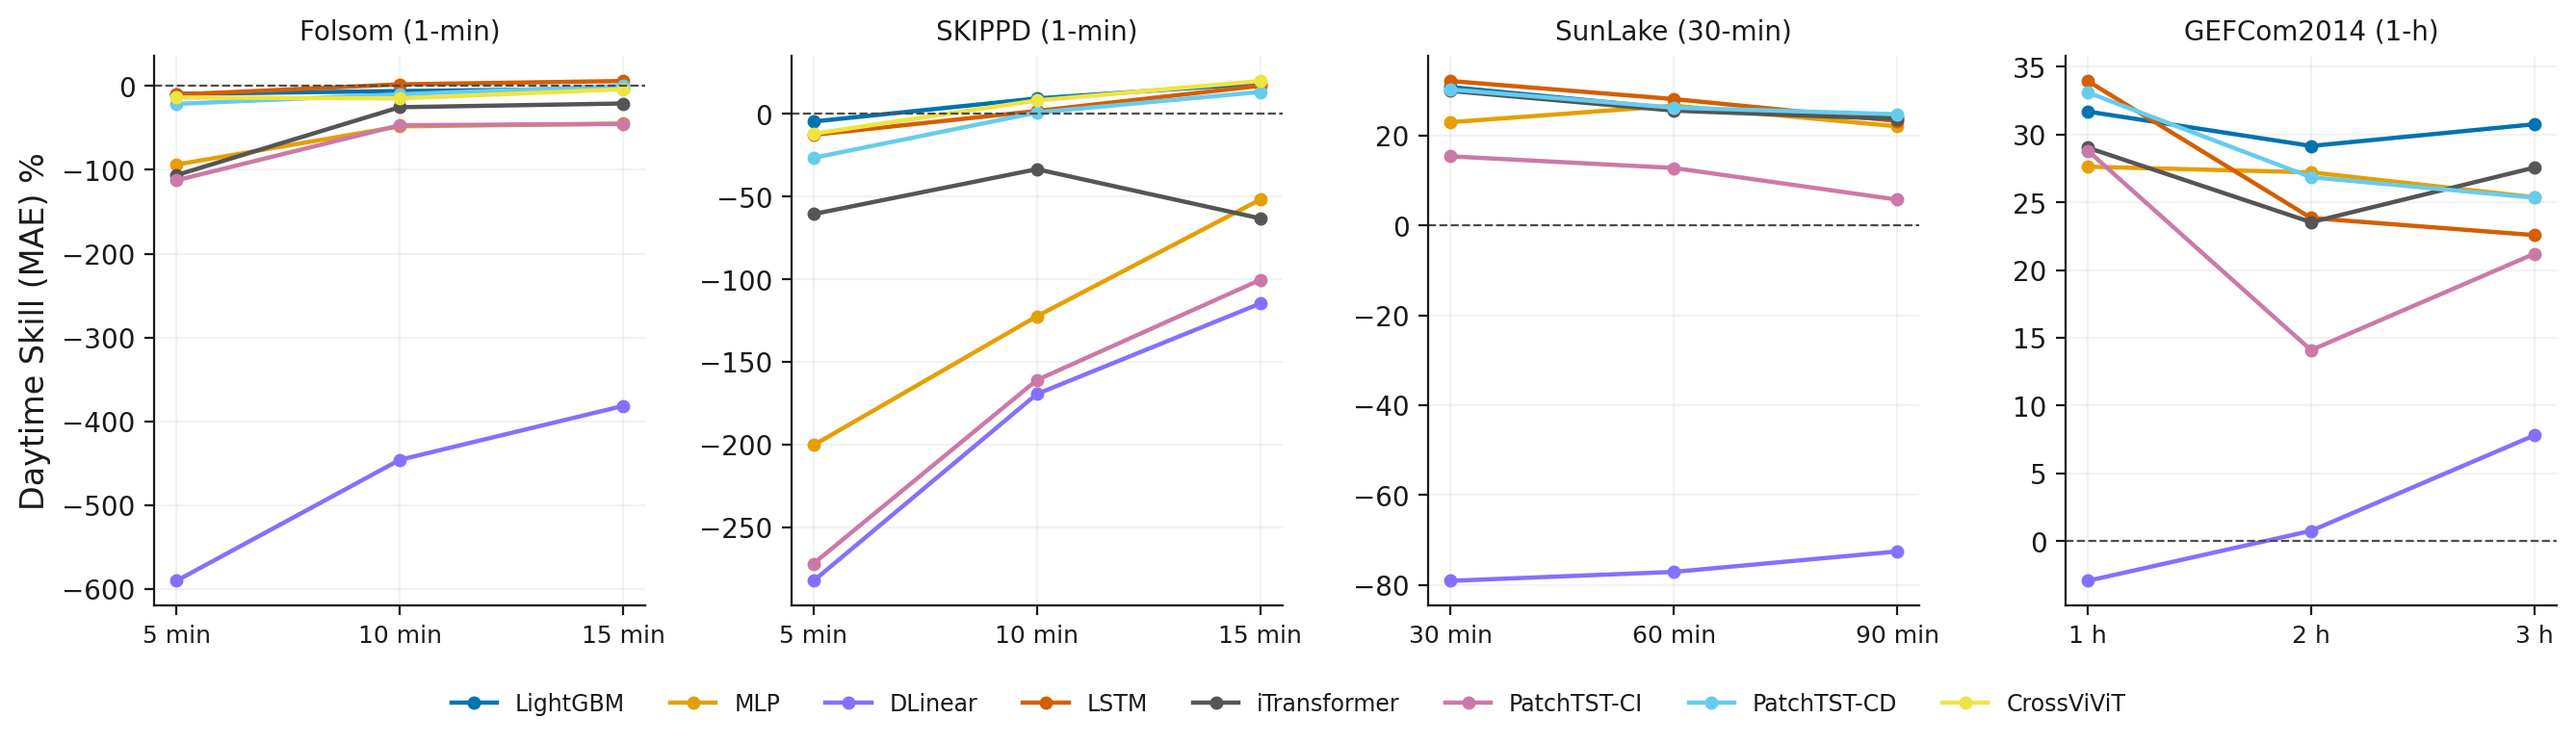
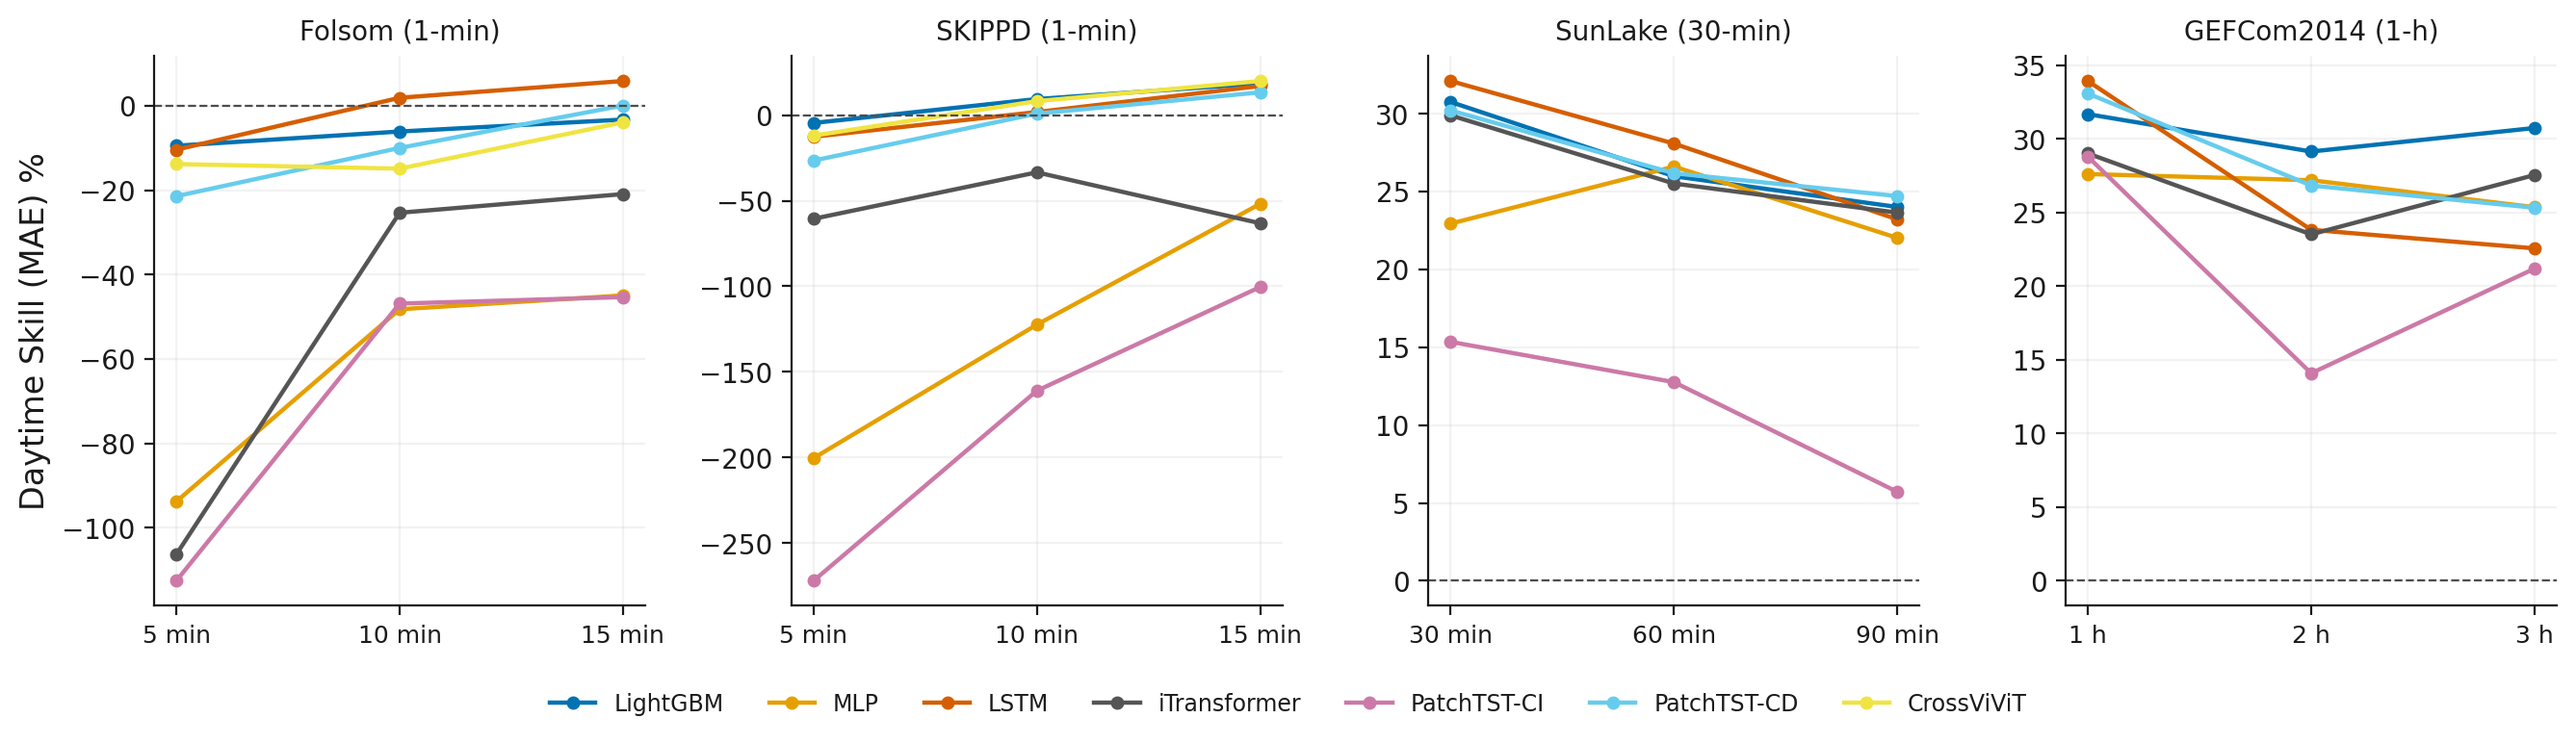
docs+viz(e8): drop DLinear from displayed tables and figures (user decision)
- heatmap + horizon-lines: 8 -> 7 displayed models (its -590%..-382% MAE
  skill on Folsom compressed every shared scale; note added in-script)
- README + zh report: DLinear rows removed from all four metric tables;
  honest-readings updated to state the exclusion + where the full results
  live (e8_summary.csv keeps the DLinear column for completeness)
- zh 2.4 retitled to the E8 display set with a DLinear retention note

diff --git a/scripts/plot_e8_summary.py b/scripts/plot_e8_summary.py
@@ -33,9 +33,12 @@ import pandas as pd
 
 from solarunibench.viz.style import MODEL_COLORS, PALETTE, set_style  # noqa: E402
 
-#: Column order for the 8 non-reference models.
+#: Column order for the displayed non-reference models. DLinear is EXCLUDED
+#: from figures + doc tables (user decision 2026-08: its −590%..−381% MAE
+#: skill on Folsom compresses the shared color scale and the crossover lines);
+#: its results remain in e8_summary.csv for completeness.
 _MODELS = [
-    "LightGBM", "MLP", "DLinear", "LSTM",
+    "LightGBM", "MLP", "LSTM",
     "iTransformer", "PatchTST-CI", "PatchTST-CD", "CrossViViT",
 ]
 
@@ -44,7 +47,6 @@ _MODELS = [
 #: so all 8 lines are distinguishable and stable across runs. The base palette
 #: has 6 Wong/Okabe-Ito colors, so the fallbacks add linestyle separation.
 _FALLBACK = {
-    "DLinear": "#8470FF",          # extend beyond the 6-color palette
     "iTransformer": "#555555",
     "PatchTST-CI": MODEL_COLORS["PatchTST"],
     "PatchTST-CD": "#66CCEE",

diff --git a/docs/zh/实验报告.md b/docs/zh/实验报告.md
@@ -93,19 +93,20 @@ scripts/
 - `ForecastModel.fit/predict`：6 个基线统一接口；`images` 是可选的多模态入口。
 - `SolarForecastPipeline.run()`：套上 `PhysicalFeatureScaler`（默认开启、仅用 train 拟合，零泄漏）+ 白昼评测器，保证**全网格在同一口径下打分**。
 
-### 2.4 九个基线模型
+### 2.4 基线模型（E8 展示集）
 
 | 模型 | 类型 | 备注 |
 |---|---|---|
 | SmartPersistence | 物理 | 晴空缩放持久化，skill 的分母/参考 |
 | LightGBM | 树 | 逐 horizon |
 | MLP | sklearn | 可配置，含 `skippd_paper` 预设 |
-| DLinear | torch | 趋势/季节分解 + 双线性头（Zeng AAAI'23） |
 | LSTM | torch | 经典序列，全配置 100 epoch |
 | PatchTST (CI) | torch | 通道无关 patch Transformer（Nie ICLR'23） |
 | PatchTST-CD | torch | 通道依赖变体，patch 跨所有通道 |
 | iTransformer | torch | 反转注意力跨变量通道（Liu ICLR'24） |
 | **CrossViViT v2** | torch 多模态 | 表格↔天空图双向交叉注意力（Boussif 2023 启发的轻量变体，~224K 参数）；v2 保留图像时间维（帧位置嵌入，不做时间 mean-pool）+ 融合已知未来天文轨迹 X_future |
+
+（DLinear 仍在代码与 `e8_summary.csv` 中作为 "Transformer antagonist" 基线完整保留，但**不进入 E8 展示表格与图**——其在 1-min 数据集上 −590%~−382% 的极端值会压垮共享色标；见 §4.1。）
 
 > CrossViViT 诚实说明：本端口为 **lightweight variant（~224K 参数）**，非官方 145M RoCrossViViT——后者还含 RoPE 位置编码（按经纬度）、逐站点统计、光流/卫星上下文通道，均未实现（future work）。v2 相对 v1 的单种子 MAE 小幅回退、RMSE 改善，经记录决策保留 v2 为正式结果（含 limitations 声明，`docs/results/e8_crossvivit_v2_notes.md`；v1 结果归档于 `figures/results/archive_e8_pre_crossvivit_v2/`）。
 
@@ -132,7 +133,7 @@ scripts/
 | **E5** 质量审计 | 治理（清洗）带来多少精度增益？ | raw vs cleaned |
 | **E6** 跨模态对齐 | 图像-表格时间戳对齐的价值？ | 未对齐 vs 对齐（Folsom 秒级 vs 小时级）|
 | **E7** 缺陷诊断 | 数据缺陷长什么样？（描述性） | 缺失/异常/不规则分布 |
-| **E8** 统一基准 | 9 模型 × 4 数据集 × 3 物理视野（per-dataset 原生窗口）的白昼 skill | Daytime Skill% vs SmartPersistence（`figures/results/e8_summary.csv`） |
+| **E8** 统一基准 | 模型阶梯 × 4 数据集 × 3 物理视野（per-dataset 原生窗口）的白昼 skill | Daytime Skill% vs SmartPersistence（`figures/results/e8_summary.csv`） |
 | **E9** 治理 vs 复杂度（核心） | 治理 vs 复杂度，哪个增益更大？ | 2 轴消融（数据态 × 模型阶梯）+ 交叉点 |
 
 ---
@@ -157,7 +158,6 @@ scripts/
 | SmartPersistence | 0.00（参考） | 0.00（参考） | 0.00（参考） | 0.00（参考） |
 | LightGBM | −9.5 / −6.1 / −3.3 | −4.6 / +9.3 / +18.4 | +30.8 / +26.0 / +24.0 | +31.7 / +29.2 / +30.8 |
 | MLP | −93.8 / −48.2 / −45.0 | −200.3 / −122.4 / −51.9 | +22.9 / +26.6 / +22.0 | +27.6 / +27.2 / +25.4 |
-| DLinear | −590.2 / −446.0 / −381.6 | −282.4 / −169.4 / −114.7 | −79.1 / −77.1 / −72.5 | −2.9 / +0.8 / +7.8 |
 | LSTM | −10.4 / +1.9 / +5.9 | −12.7 / +1.8 / +17.0 | **+32.1** / +28.1 / +23.2 | **+33.9** / +23.8 / +22.6 |
 | iTransformer | −106.3 / −25.4 / −20.9 | −60.6 / −33.4 / −63.2 | +29.9 / +25.5 / +23.6 | +29.0 / +23.5 / +27.6 |
 | PatchTST-CI | −112.6 / −46.9 / −45.4 | −272.0 / −161.0 / −100.4 | +15.3 / +12.8 / +5.7 | +28.8 / +14.1 / +21.2 |
@@ -170,7 +170,6 @@ Daytime Skill_RMSE%（同符号约定，正=优于持久化）：
 |---|---|---|---|---|
 | LightGBM | **+8.5 / +10.7 / +12.1** | **+3.9 / +9.1 / +12.0** | **+18.9 / +18.2 / +18.6** | **+27.4 / +28.2 / +31.7** |
 | MLP | −8.3 / +4.2 / +6.3 | −43.3 / −31.5 / −6.6 | +17.0 / +17.4 / +18.6 | +25.6 / +26.0 / +29.7 |
-| DLinear | −163.4 / −125.7 / −110.7 | −103.7 / −68.0 / −49.5 | −51.1 / −45.4 / −39.5 | +7.7 / +14.2 / +21.3 |
 | LSTM | +5.5 / +7.6 / +9.7 | −10.6 / −1.4 / +5.1 | +17.4 / +16.5 / +14.8 | +24.4 / +22.4 / +25.8 |
 | iTransformer | −10.7 / +5.9 / +6.4 | −16.8 / −10.0 / −24.1 | +16.6 / +14.8 / +15.5 | +23.0 / +20.5 / +24.0 |
 | PatchTST-CI | −19.8 / −1.6 / −1.7 | −95.9 / −62.1 / −41.7 | +9.0 / +10.7 / +6.3 | +20.2 / +13.2 / +21.4 |
@@ -183,7 +182,6 @@ Daytime MAE（归一化单位）：
 |---|---|---|---|---|
 | LightGBM | **0.014 / 0.017 / 0.019** | 0.015 / 0.019 / 0.022 | 0.032 / 0.036 / 0.039 | 0.072 / 0.084 / 0.090 |
 | MLP | 0.025 / 0.024 / 0.027 | 0.044 / 0.047 / 0.041 | 0.036 / 0.036 / 0.040 | 0.077 / 0.086 / 0.097 |
-| DLinear | 0.088 / 0.089 / 0.089 | 0.057 / 0.057 / 0.057 | 0.083 / 0.087 / 0.088 | 0.109 / 0.118 / 0.120 |
 | LSTM | 0.014 / 0.016 / **0.017** | 0.017 / 0.021 / 0.022 | **0.031** / 0.035 / 0.039 | **0.070** / 0.090 / 0.100 |
 | iTransformer | 0.026 / 0.020 / 0.022 | 0.024 / 0.028 / 0.044 | 0.032 / 0.037 / 0.039 | 0.075 / 0.091 / 0.094 |
 | PatchTST-CI | 0.027 / 0.024 / 0.027 | 0.055 / 0.055 / 0.054 | 0.039 / 0.043 / 0.048 | 0.076 / 0.102 / 0.102 |
@@ -196,7 +194,6 @@ Daytime RMSE（归一化单位）：
 |---|---|---|---|---|
 | LightGBM | **0.036 / 0.042 / 0.044** | **0.041 / 0.048 / 0.052** | **0.052 / 0.058 / 0.061** | **0.107 / 0.123 / 0.132** |
 | MLP | 0.043 / 0.045 / 0.047 | 0.061 / 0.069 / 0.063 | 0.053 / 0.058 / 0.061 | 0.109 / 0.127 / 0.136 |
-| DLinear | 0.104 / 0.106 / 0.106 | 0.087 / 0.088 / 0.089 | 0.097 / 0.103 / 0.105 | 0.136 / 0.147 / 0.152 |
 | LSTM | 0.037 / 0.043 / 0.046 | 0.047 / 0.053 / 0.056 | 0.053 / 0.059 / 0.064 | 0.111 / 0.133 / 0.143 |
 | iTransformer | 0.044 / 0.044 / 0.047 | 0.050 / 0.058 / 0.074 | 0.054 / 0.060 / 0.064 | 0.113 / 0.136 / 0.147 |
 | PatchTST-CI | 0.047 / 0.048 / 0.051 | 0.084 / 0.085 / 0.084 | 0.059 / 0.063 / 0.071 | 0.117 / 0.149 / 0.152 |
@@ -205,12 +202,12 @@ Daytime RMSE（归一化单位）：
 
 （SmartPersistence 参考值 MAE/RMSE：Folsom 0.013/0.016/0.019 与 0.040/0.047/0.050 · SKIPPD 0.015/0.021/0.027 与 0.043/0.052/0.059 · SunLake 0.046/0.049/0.051 与 0.064/0.071/0.075 · GEFCom 0.106/0.119/0.130 与 0.147/0.171/0.193。）
 
-正式文件：`figures/results/e8_summary.csv`（4 数据集 × 4 指标 × 3 视野 × 9 模型；逐格原始值在 `e8_full_checkpoint*.csv`；v1 结果归档于 `archive_e8_pre_crossvivit_v2/`）。CrossViViT 图像变体另记于 `e8_crossvivit_image_v2.csv`（图像覆盖窗口上评测）。可视化：`figures/results/fig_e8_skill_heatmap.png`（MAE/RMSE 双指标发散色热图）与 `fig_e8_horizon_lines.png`（各数据集 skill-视野 crossover 线图），由 `scripts/plot_e8_summary.py` 直接从 CSV 生成（图与表永不脱节）。
+正式文件：`figures/results/e8_summary.csv`（4 数据集 × 4 指标 × 3 视野 × 全部 9 模型含 DLinear；逐格原始值在 `e8_full_checkpoint*.csv`；v1 结果归档于 `archive_e8_pre_crossvivit_v2/`）。CrossViViT 图像变体另记于 `e8_crossvivit_image_v2.csv`（图像覆盖窗口上评测）。可视化：`figures/results/fig_e8_skill_heatmap.png`（MAE/RMSE 双指标发散色热图）与 `fig_e8_horizon_lines.png`（各数据集 skill-视野 crossover 线图），由 `scripts/plot_e8_summary.py` 直接从 CSV 生成（图与表永不脱节）。
 
 **读法**：
 - **1-min 数据 5-min 视野**：MAE 上云几乎不动、持久化近乎不可超越——Folsom h5 所有模型为负（真实结论）；LSTM 从 10 min 转正（+1.9 → +5.9），CrossViViT v2 在 SKIPPD-15min 达 **+19.9**。但 **RMSE skill 在 5-min 就已转正**（LightGBM/CrossViViT/PatchTST-CD 均为正）——模型先削大误差尾部，中位误差仍落后。
 - **粗采样数据**：模型全面占优——**LSTM 是 SunLake（+32.1）与 GEFCom（+33.9）的 MAE 最佳**；**LightGBM 是所有数据集的 RMSE 最佳**（Skill_RMSE +8.5~+31.7）。
-- **DLinear 全数据集最差**（趋势/季节分解 + 线性头的容量局限，诚实披露），但在 GEFCom 长视野转正（3h Skill_MAE +7.8）；PatchTST-CI（通道无关）在少通道表格信号上系统性落后，CD 变体大幅追回。
+- **DLinear 不在展示的表格/图中**（用户决定）：其趋势/季节分解 + 线性头在 1-min 数据集上崩塌（Folsom Skill_MAE −590%~−382%），会压垮所有共享色标；完整结果保留在 `e8_summary.csv`（GEFCom 长视野转正 +7.8@3h）；PatchTST-CI（通道无关）在少通道表格信号上系统性落后，CD 变体大幅追回。
 
 ### 4.2 E9 治理 vs 复杂度（核心实验）
 

diff --git a/README.md b/README.md
@@ -189,7 +189,6 @@ Daytime Skill_MAE% per horizon (0 = parity with Smart Persistence; +=better):
 |---|---|---|---|---|
 | LightGBM | −9.5 / −6.1 / −3.3 | −4.6 / +9.3 / +18.4 | +30.8 / +26.0 / +24.0 | +31.7 / +29.2 / +30.8 |
 | MLP | −93.8 / −48.2 / −45.0 | −200.3 / −122.4 / −51.9 | +22.9 / +26.6 / +22.0 | +27.6 / +27.2 / +25.4 |
-| DLinear | −590.2 / −446.0 / −381.6 | −282.4 / −169.4 / −114.7 | −79.1 / −77.1 / −72.5 | −2.9 / +0.8 / +7.8 |
 | LSTM | −10.4 / +1.9 / +5.9 | −12.7 / +1.8 / +17.0 | **+32.1** / +28.1 / +23.2 | **+33.9** / +23.8 / +22.6 |
 | iTransformer | −106.3 / −25.4 / −20.9 | −60.6 / −33.4 / −63.2 | +29.9 / +25.5 / +23.6 | +29.0 / +23.5 / +27.6 |
 | PatchTST-CI | −112.6 / −46.9 / −45.4 | −272.0 / −161.0 / −100.4 | +15.3 / +12.8 / +5.7 | +28.8 / +14.1 / +21.2 |
@@ -202,7 +201,6 @@ Daytime Skill_RMSE% per horizon (same sign convention):
 |---|---|---|---|---|
 | LightGBM | **+8.5 / +10.7 / +12.1** | **+3.9 / +9.1 / +12.0** | **+18.9 / +18.2 / +18.6** | **+27.4 / +28.2 / +31.7** |
 | MLP | −8.3 / +4.2 / +6.3 | −43.3 / −31.5 / −6.6 | +17.0 / +17.4 / +18.6 | +25.6 / +26.0 / +29.7 |
-| DLinear | −163.4 / −125.7 / −110.7 | −103.7 / −68.0 / −49.5 | −51.1 / −45.4 / −39.5 | +7.7 / +14.2 / +21.3 |
 | LSTM | +5.5 / +7.6 / +9.7 | −10.6 / −1.4 / +5.1 | +17.4 / +16.5 / +14.8 | +24.4 / +22.4 / +25.8 |
 | iTransformer | −10.7 / +5.9 / +6.4 | −16.8 / −10.0 / −24.1 | +16.6 / +14.8 / +15.5 | +23.0 / +20.5 / +24.0 |
 | PatchTST-CI | −19.8 / −1.6 / −1.7 | −95.9 / −62.1 / −41.7 | +9.0 / +10.7 / +6.3 | +20.2 / +13.2 / +21.4 |
@@ -215,7 +213,6 @@ Daytime MAE per horizon (normalized units):
 |---|---|---|---|---|
 | LightGBM | **0.014 / 0.017 / 0.019** | 0.015 / 0.019 / 0.022 | 0.032 / 0.036 / 0.039 | 0.072 / 0.084 / 0.090 |
 | MLP | 0.025 / 0.024 / 0.027 | 0.044 / 0.047 / 0.041 | 0.036 / 0.036 / 0.040 | 0.077 / 0.086 / 0.097 |
-| DLinear | 0.088 / 0.089 / 0.089 | 0.057 / 0.057 / 0.057 | 0.083 / 0.087 / 0.088 | 0.109 / 0.118 / 0.120 |
 | LSTM | 0.014 / 0.016 / **0.017** | 0.017 / 0.021 / 0.022 | **0.031** / 0.035 / 0.039 | **0.070** / 0.090 / 0.100 |
 | iTransformer | 0.026 / 0.020 / 0.022 | 0.024 / 0.028 / 0.044 | 0.032 / 0.037 / 0.039 | 0.075 / 0.091 / 0.094 |
 | PatchTST-CI | 0.027 / 0.024 / 0.027 | 0.055 / 0.055 / 0.054 | 0.039 / 0.043 / 0.048 | 0.076 / 0.102 / 0.102 |
@@ -228,7 +225,6 @@ Daytime RMSE per horizon (normalized units):
 |---|---|---|---|---|
 | LightGBM | **0.036 / 0.042 / 0.044** | **0.041 / 0.048 / 0.052** | **0.052 / 0.058 / 0.061** | **0.107 / 0.123 / 0.132** |
 | MLP | 0.043 / 0.045 / 0.047 | 0.061 / 0.069 / 0.063 | 0.053 / 0.058 / 0.061 | 0.109 / 0.127 / 0.136 |
-| DLinear | 0.104 / 0.106 / 0.106 | 0.087 / 0.088 / 0.089 | 0.097 / 0.103 / 0.105 | 0.136 / 0.147 / 0.152 |
 | LSTM | 0.037 / 0.043 / 0.046 | 0.047 / 0.053 / 0.056 | 0.053 / 0.059 / 0.064 | 0.111 / 0.133 / 0.143 |
 | iTransformer | 0.044 / 0.044 / 0.047 | 0.050 / 0.058 / 0.074 | 0.054 / 0.060 / 0.064 | 0.113 / 0.136 / 0.147 |
 | PatchTST-CI | 0.047 / 0.048 / 0.051 | 0.084 / 0.085 / 0.084 | 0.059 / 0.063 / 0.071 | 0.117 / 0.149 / 0.152 |
@@ -259,11 +255,13 @@ CSV (figures cannot drift from the table).
   SunLake (+32.1) and GEFCom (+33.9); **LightGBM is the best RMSE model on
   every dataset** (Skill_RMSE +8.5…+31.7 across all cells where it is positive,
   i.e. all but the 1-min MAE cells).
-- **DLinear is the worst model on every dataset** (trend/seasonal decomposition
-  + linear head; capacity limitation faithfully disclosed) — though it turns
-  positive on GEFCom at longer leads (Skill_MAE +7.8 at 3 h). PatchTST-CI
-  (channel-independent) is systematically weak on low-channel tabular signals;
-  the CD variant recovers most of the gap.
+- **DLinear is excluded from the displayed tables/figures** (user decision):
+  its trend/seasonal + linear head collapses on the 1-min datasets
+  (Skill_MAE −590%…−382% on Folsom), compressing every shared scale; its full
+  results remain in `e8_summary.csv` for completeness (it does turn positive on
+  GEFCom at longer leads, +7.8 at 3 h). PatchTST-CI (channel-independent) is
+  systematically weak on low-channel tabular signals; the CD variant recovers
+  most of the gap.
 
 > **CrossViViT v2 note (honest):** the benchmark's CrossViViT is a
 > **lightweight variant (~224 K params)** inspired by Boussif et al. 2023
